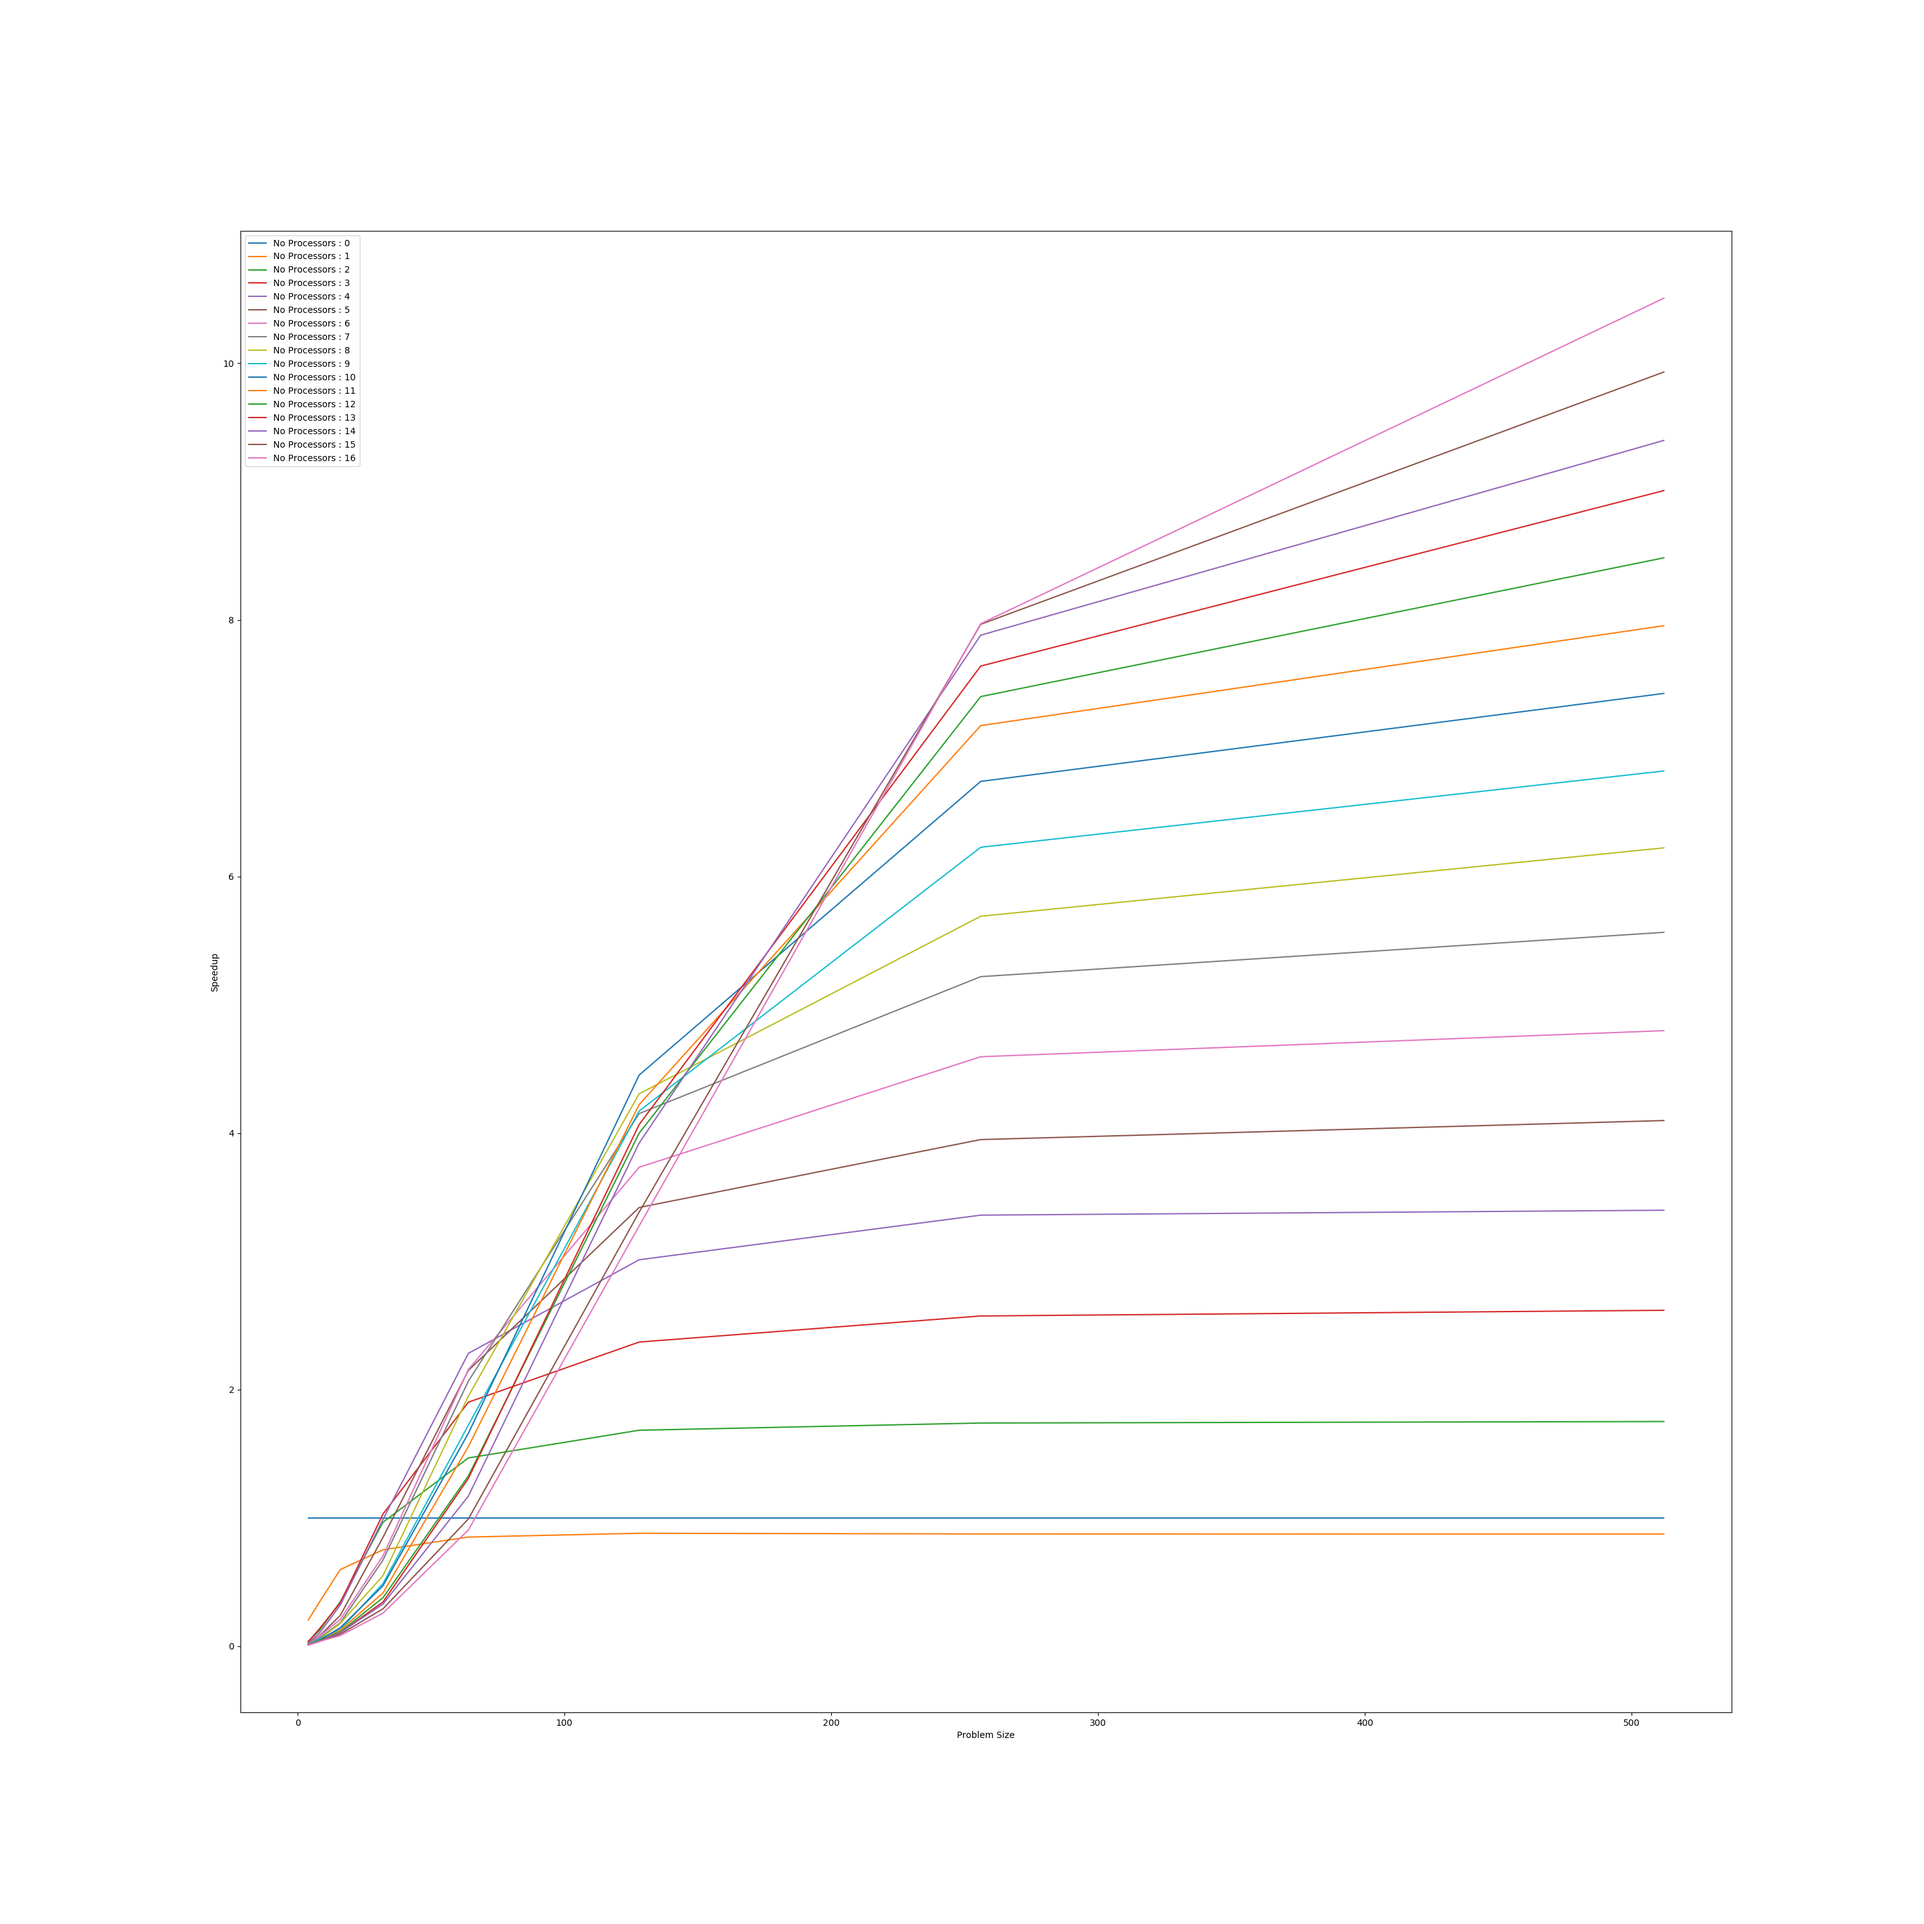
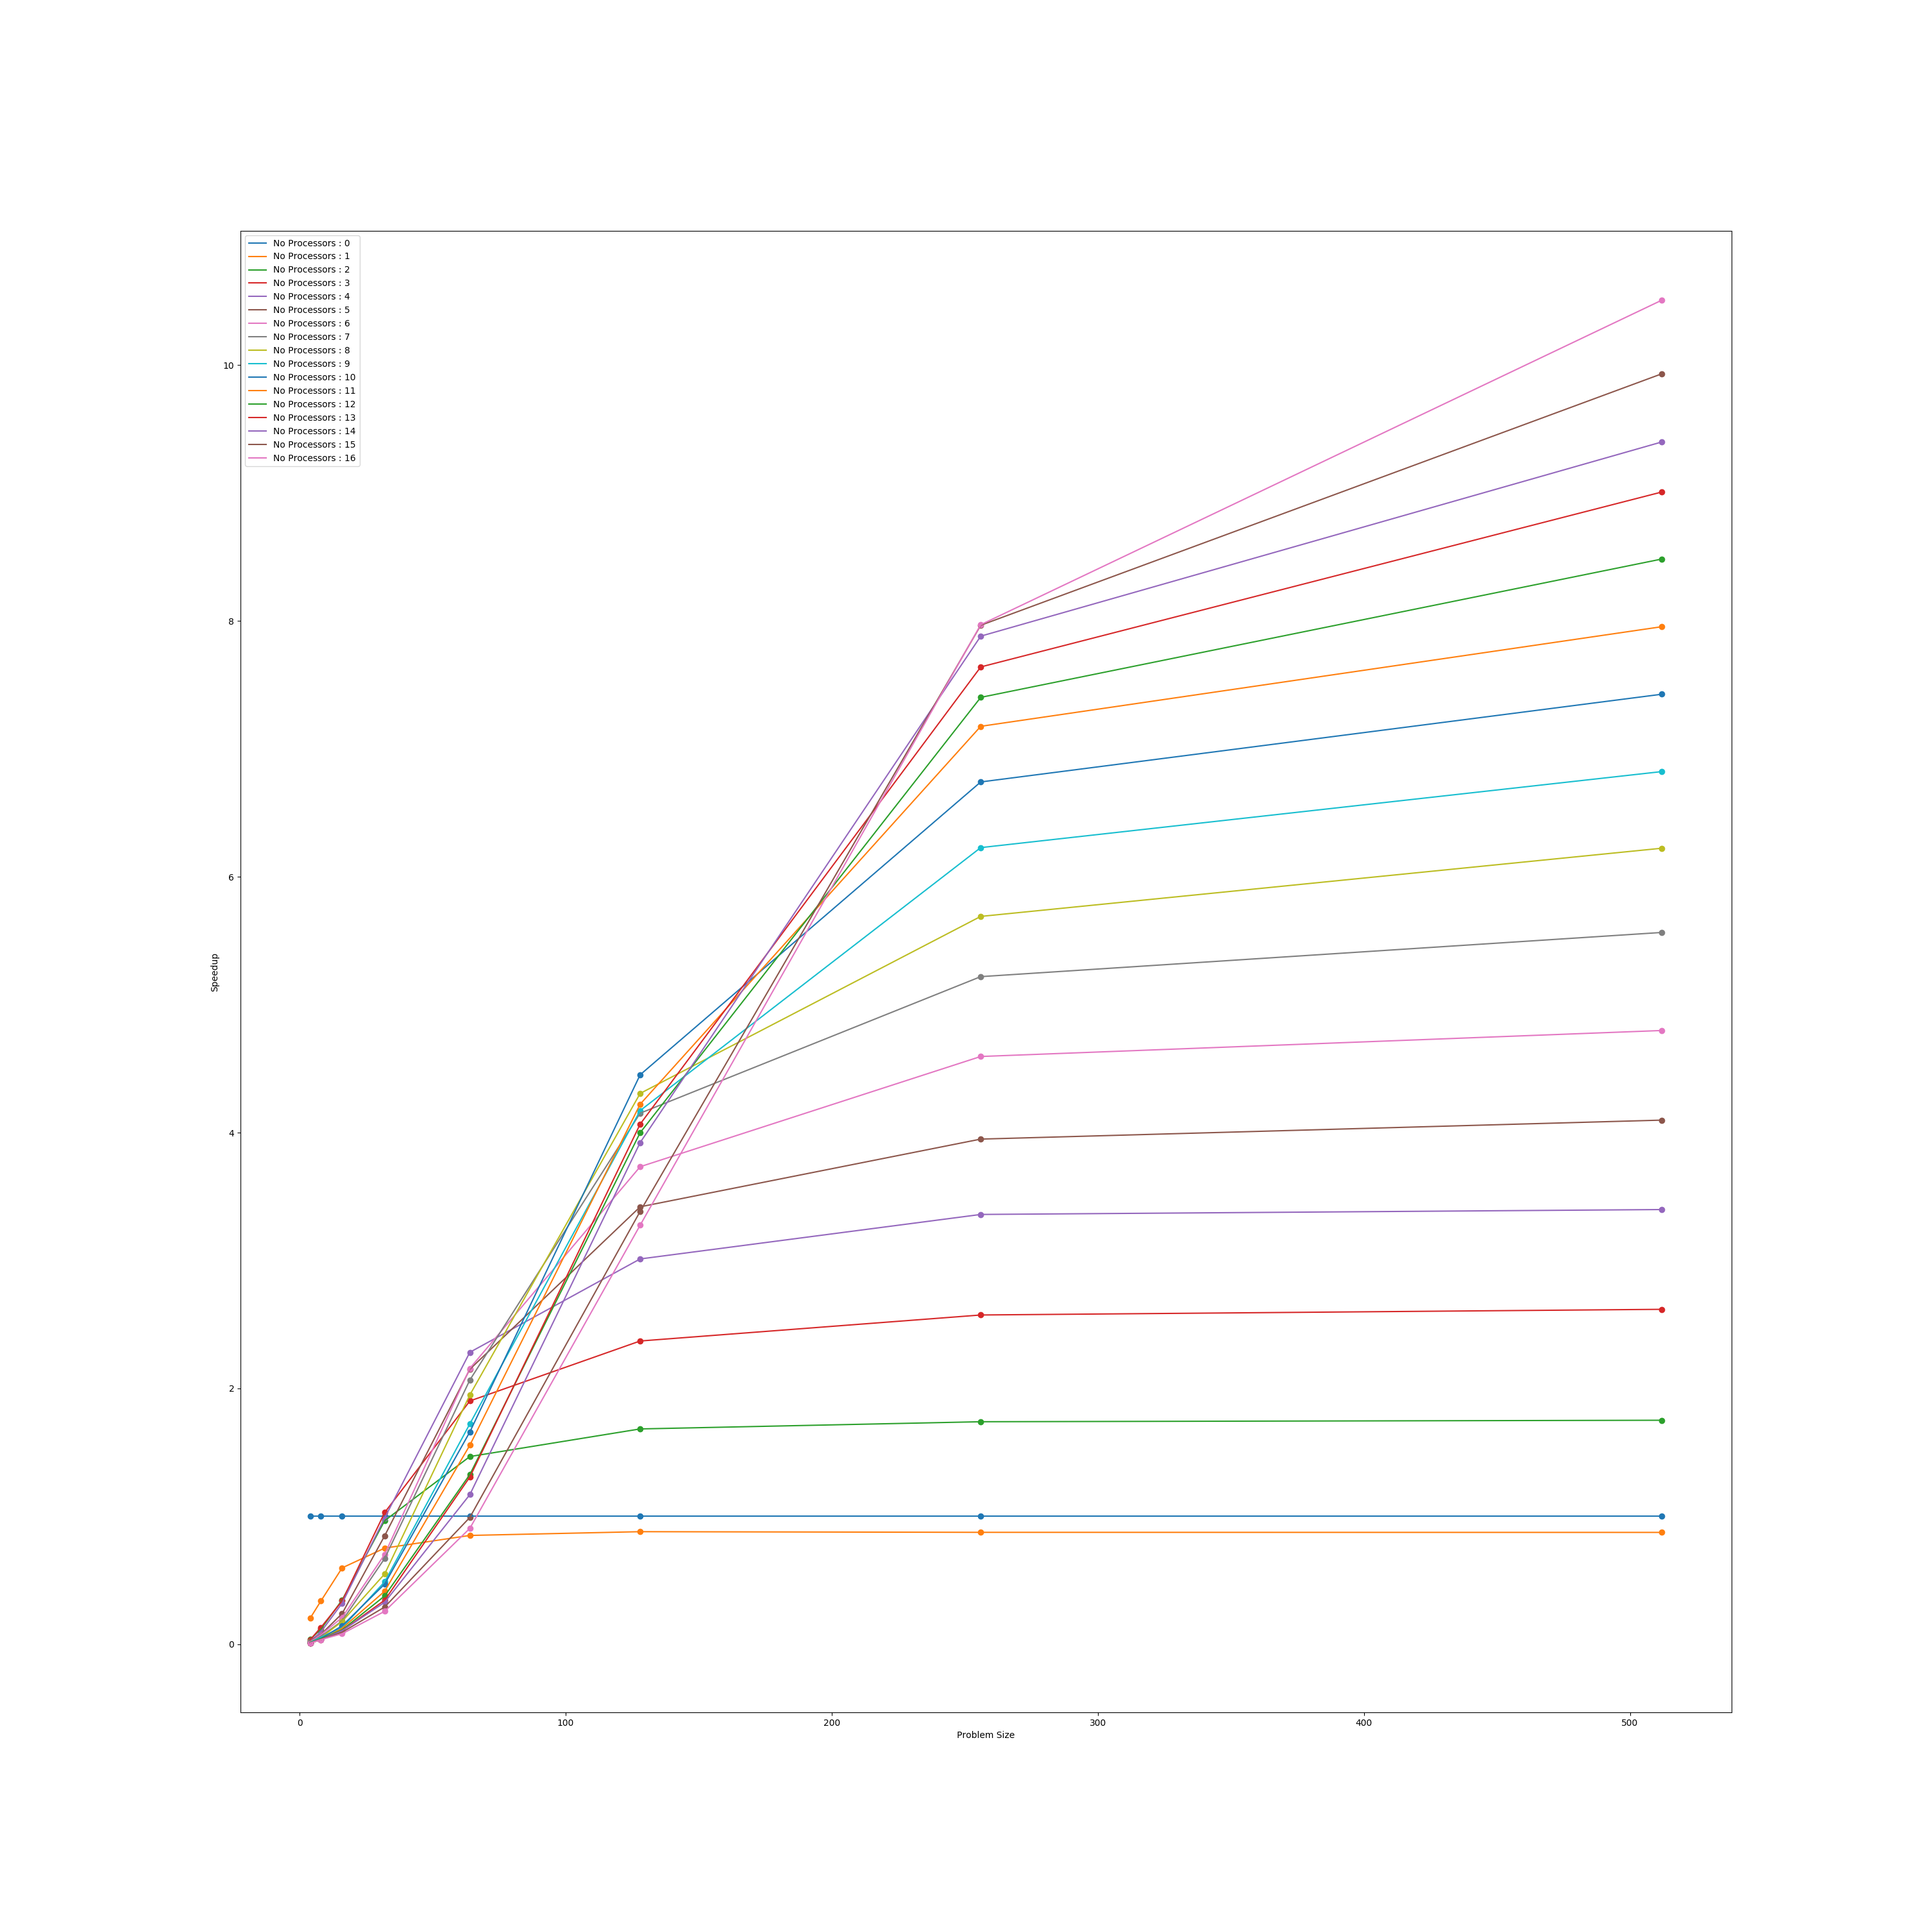
Added scatter plot

diff --git a/plot_graphs.py b/plot_graphs.py
@@ -92,8 +92,10 @@ def time_curve(line_proc_alg, fname):
     plt.figure(figsize=(30, 30))
     problem_size = [2**i for i in range(2, 10)]
     plt.plot(problem_size, line_proc_end_serial[0, :])
+    plt.scatter(problem_size, line_proc_end_serial[0, :])
     for i in range(line_proc_alg.shape[0]):
         plt.plot(problem_size, line_proc_alg[i, :])
+        plt.scatter(problem_size, line_proc_alg[i, :])
     plt.xlabel('Problem Size')
     plt.ylabel('Time')
     plt.legend([f'No Processors : {i}' for i in range(17)])
@@ -110,9 +112,11 @@ def speedup_curve(line_proc_alg, fname):
     problem_size = [2**i for i in range(2, 10)]
     res = [xj / xi for xi, xj in zip(line_proc_alg_serial[0, :], line_proc_alg_serial[0, :])]
     plt.plot(problem_size, res)
+    plt.scatter(problem_size, res)
     for i in range(line_proc_alg.shape[0]):
         res = [xj / xi for xi, xj in zip(line_proc_alg[i, :], line_proc_alg_serial[0, :])]
         plt.plot(problem_size, res)
+        plt.scatter(problem_size, res)
     plt.xlabel('Problem Size')
     plt.ylabel('Speedup')
     plt.legend([f'No Processors : {i}' for i in range(17)])
